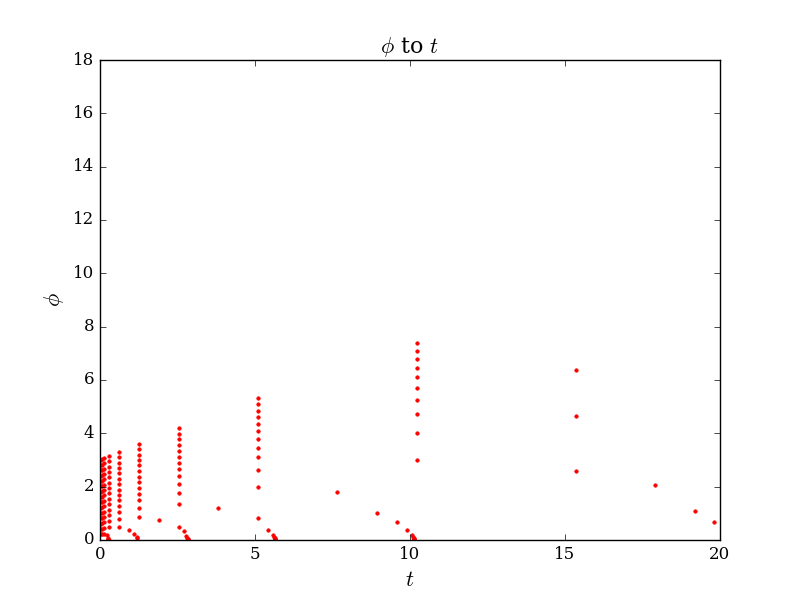
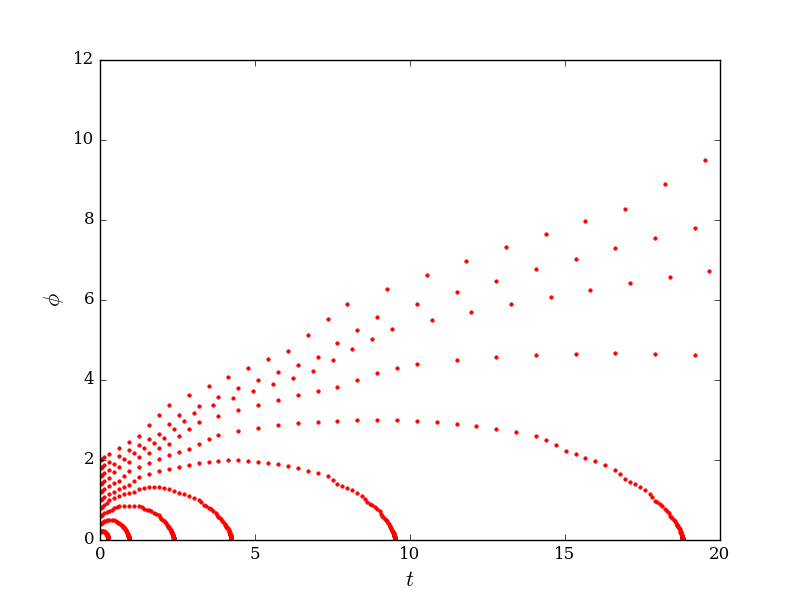
update

diff --git a/src/central_config.cpp b/src/central_config.cpp
@@ -35,17 +35,16 @@ int main(int argc, char *argv[]) {
     long double h = 0.01;
     long double t = 0.0;
     long double tend = 20.0;
-    long double index[15] = {0.2, 0.4, 0.6, 0.8, 1.0, 1.2,
-                             1.4, 1.6, 1.8, 2.0, 2.2, 2.4,
-                             2.6, 2.8, 3.0};
-    for (int i = 0; i < 15; i++) {
+    long double index[10] = {0.2, 0.4, 0.6, 0.8, 1.0, 1.2,
+                             1.4, 1.6, 1.8, 2.0};
+    for (int i = 0; i < 10; i++) {
         cent_con_phi0 = index[i];
         h = 0.01;
         t = 0.0;
         long double rkf[2] = {cent_con_phi0, cent_con_phidot0};
         for (; t < tend;) {
             try {
-                RKF.rkf78(&h, &t, rkf, 1e-8, 1e-4);
+                RKF.rkf78(&h, &t, rkf, 1e-20, 1e-12);
             } catch (invalid_argument& e) {
                 cerr << e.what() << endl;
                 return -1;
